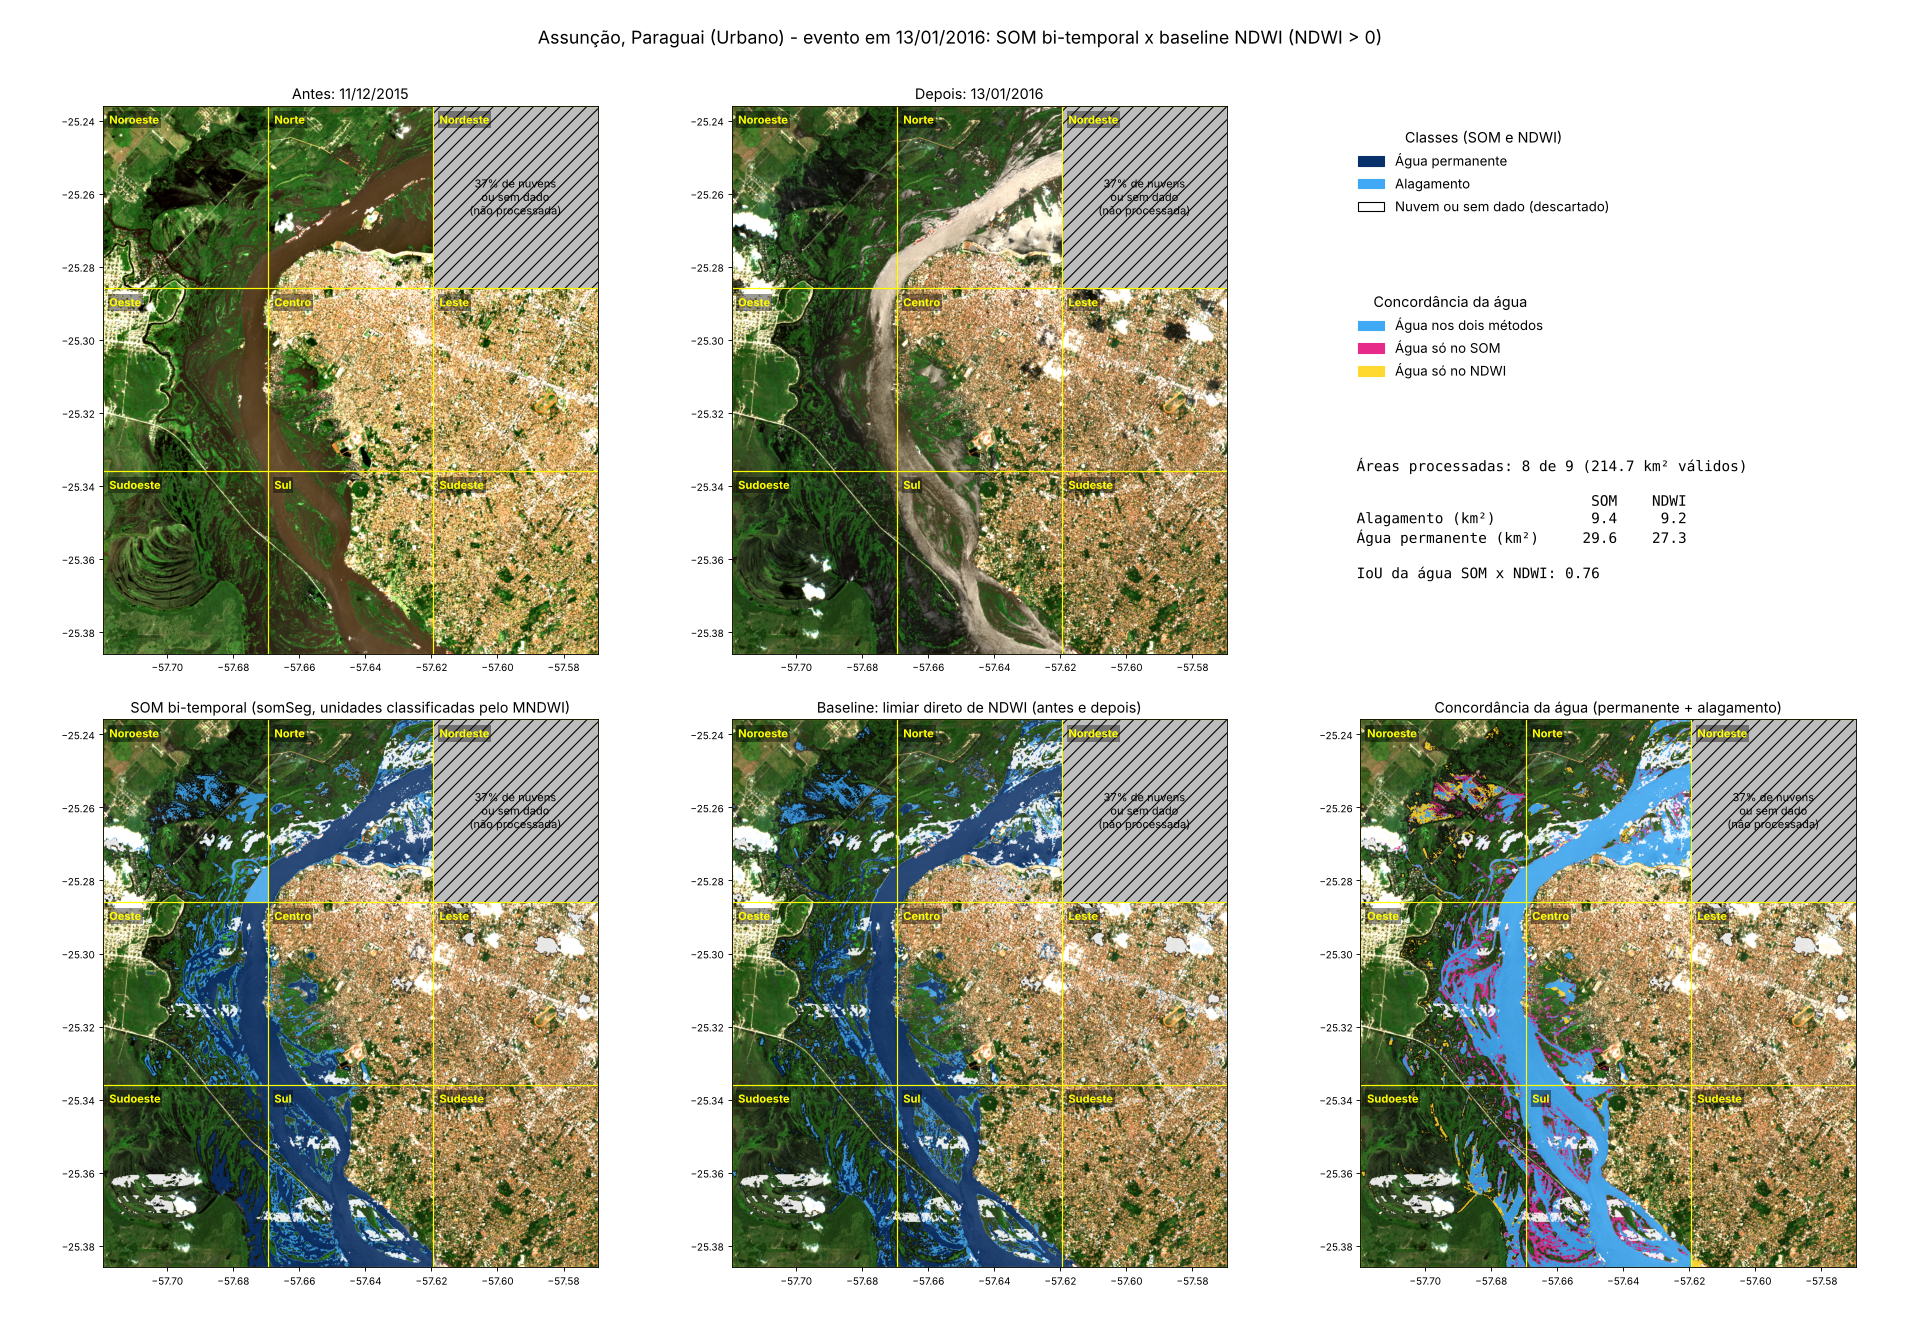
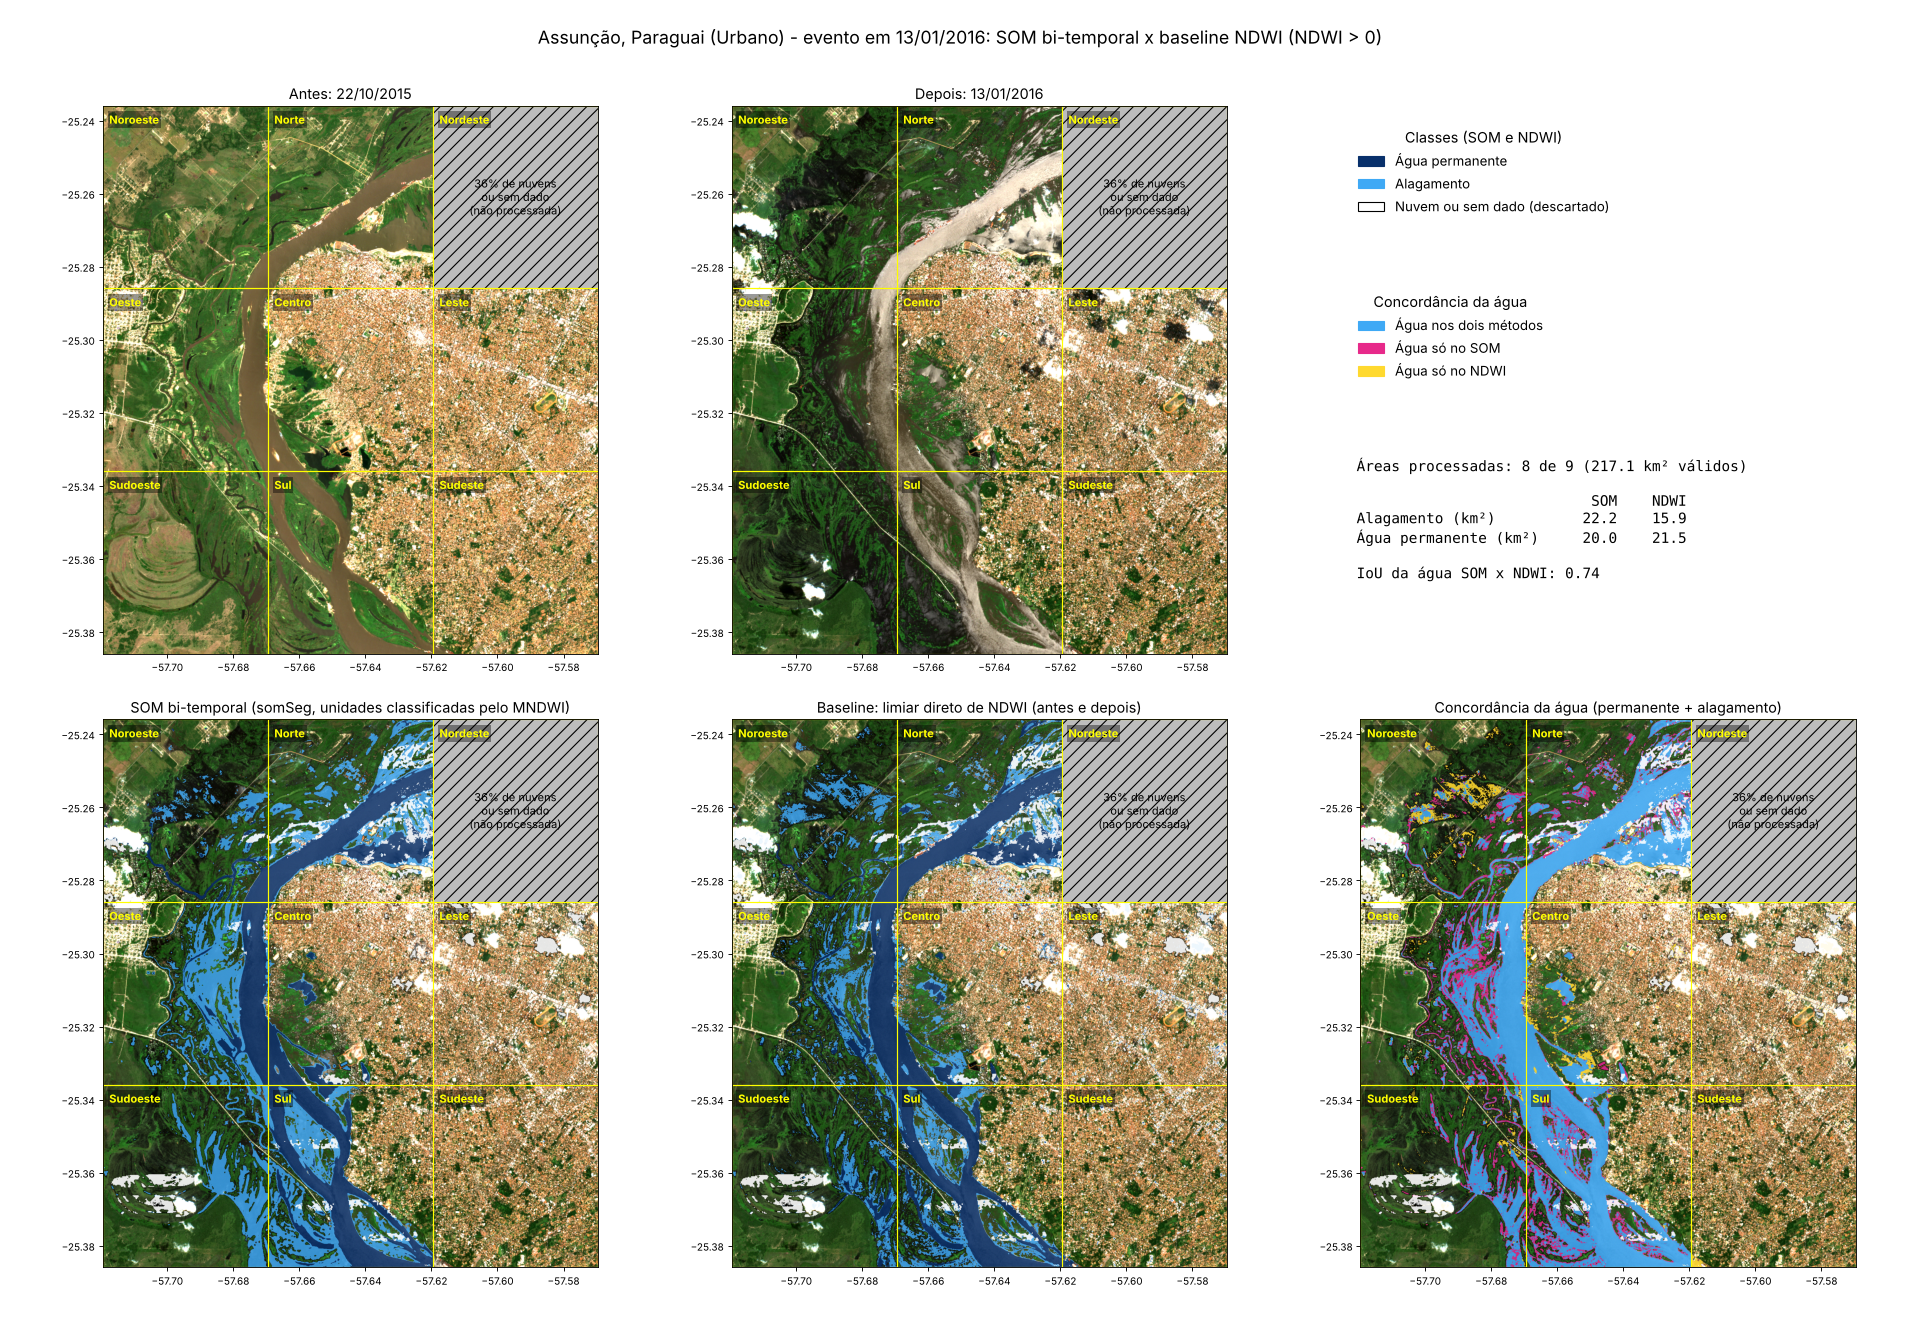
Permite fixar a data da imagem de antes por evento
A tabela de eventos ganhou a coluna opcional data_antes. Quando ela está
preenchida, a cena de antes é a dessa data, no mesmo tile da cena de
depois. Assunção (22/10/2015), Phrai Bueng e Sakon Nakhon (05/03/2017)
voltaram às imagens anteriores: as mais próximas já tinham cheia ou
nuvens concentradas em algumas áreas. Cachoeira do Sul usa 12/03/2024, a
imagem anterior mais próxima sem nuvem na grade.

Claude-Session: https://claude.ai/code/session_01DPnUPdBUryvY79sVsNU78y

diff --git a/processarEventos.py b/processarEventos.py
@@ -14,7 +14,8 @@ anterior a ele e do mesmo tile, com no máximo 10% de nuvens/sem dado dentro da
 grade (sentinelUtils.selecionar_cena_antes). Se o evento já tem um .json com as
 cenas escolhidas, elas são reaproveitadas (use --reselecionar para escolher as
 duas de novo, ou --reselecionar-antes para manter a de depois e escolher só a
-de antes).
+de antes). Se a coluna data_antes da tabela estiver preenchida, a cena de antes
+é a dessa data (no mesmo tile da cena de depois), em vez da escolha automática.
 
 Uso:
     python processarEventos.py                      # todos os eventos
@@ -85,13 +86,18 @@ def processar_evento(evento, pasta_resultados, pasta_cache, reselecionar=False, 
         if "cena_depois" in anterior:
             item_depois = sentinelUtils.buscar_item(anterior["cena_depois"])
             invalida_depois = anterior["pct_invalido_depois"] / 100
-            if reselecionar_antes or "cena_antes" not in anterior:
+            if evento.get("data_antes") and (reselecionar_antes or not anterior.get("data_antes")
+                                             or anterior["data_antes"] != evento["data_antes"]):
+                item_antes, invalida_antes = sentinelUtils.buscar_cena_data(bbox, evento["data_antes"], item_depois)
+            elif reselecionar_antes or "cena_antes" not in anterior:
                 item_antes, invalida_antes = sentinelUtils.selecionar_cena_antes(bbox, evento["data"], item_depois)
             else:
                 item_antes = sentinelUtils.buscar_item(anterior["cena_antes"])
                 invalida_antes = anterior["pct_invalido_antes"] / 100
         else:
             item_antes, item_depois, invalida_antes, invalida_depois = sentinelUtils.selecionar_cenas(bbox, evento["data"])
+            if evento.get("data_antes"):
+                item_antes, invalida_antes = sentinelUtils.buscar_cena_data(bbox, evento["data_antes"], item_depois)
         print("Antes: %s (%.0f%% de nuvens/sem dado na grade)" % (item_antes.id, 100 * invalida_antes))
         print("Depois: %s (%.0f%% de nuvens/sem dado na grade)" % (item_depois.id, 100 * invalida_depois), flush=True)
         resumo.update(cena_antes=item_antes.id, cena_depois=item_depois.id,

diff --git a/sentinelUtils.py b/sentinelUtils.py
@@ -172,6 +172,17 @@ def selecionar_cena_antes(bbox, data_evento, item_depois, dias_max=180, invalida
             melhor = (item, invalida)
     return melhor
 
+# Busca a cena de uma data específica no mesmo tile de item_depois (ex.: para fixar
+# a cena de antes de um evento). Retorna (item, fração inválida dentro do bbox)
+def buscar_cena_data(bbox, data, item_depois):
+    dia = datetime.strptime(data, "%Y-%m-%d")
+    tile = item_depois.properties["s2:mgrs_tile"]
+    candidatas = [item for item in buscar_cenas(bbox, dia, dia + timedelta(days=1))
+                  if item.properties["s2:mgrs_tile"] == tile and item.datetime.date() == dia.date()]
+    if not candidatas:
+        raise RuntimeError("Nenhuma cena em %s no tile %s" % (data, tile))
+    return candidatas[0], fracao_invalida(candidatas[0], bbox)
+
 # Busca uma cena pelo identificador (ex.: para repetir um processamento com as mesmas cenas)
 def buscar_item(id_cena):
     catalogo = pystac_client.Client.open(
